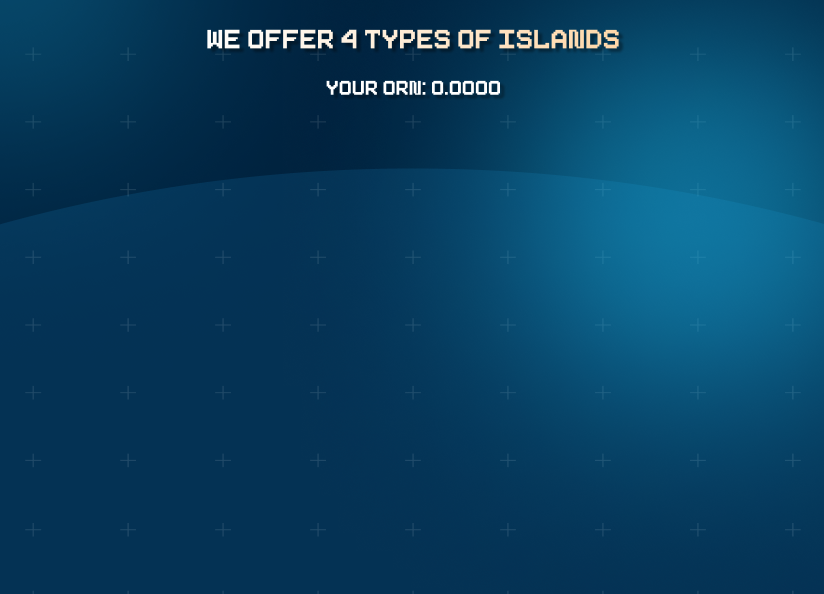
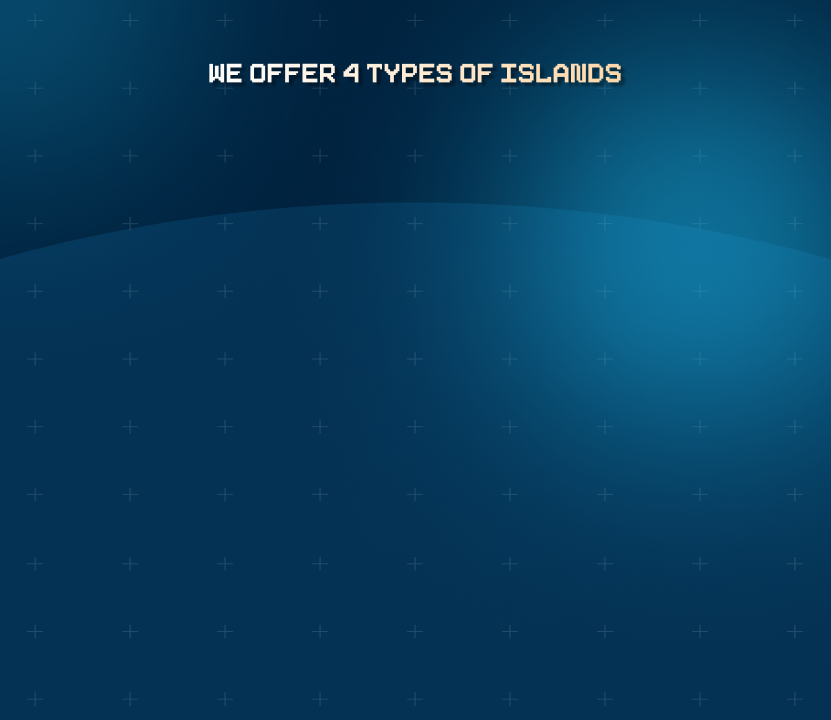
land page updated

Changed region(s): [[0.2427, 0.0303, 0.7585, 0.1818]]

diff --git a/src/views/BuyLand/index.jsx b/src/views/BuyLand/index.jsx
@@ -16,9 +16,12 @@ import checkedPng from "./checked.png";
 const ornAddress = "0x8c7ceFee41108fd2489360ed4b92623e2e0ad74b";
 const ownerAddress = "0xb9e660505E8823F1c10Db4Be1D6D51953191234c";
 
+let timeInterval;
+
 function ConnectMenu() {
   const [selectedItem, setSelectedItem] = useState("");
   const [title, setTitle] = useState("");
+  const [ornAmount, setOrnAmount] = useState(0);
   const { connect, disconnect, hasCachedProvider, provider, chainID, connected, uri } = useWeb3Context();
   const address = useAddress();
   const [pay, setPay] = useState(0);
@@ -41,6 +44,38 @@ function ConnectMenu() {
     }
   };
 
+  const app = async () => {
+    const ornContract = new ethers.Contract(ornAddress, ornABI, provider.getSigner());
+    try {
+      let amount = Number(await ornContract.balanceOf(address))/1000000000.0;
+      amount = amount.toFixed(4);
+      setOrnAmount(amount);
+    }
+    catch(err) {
+      console.err("token function call failed");
+    }
+  }
+
+  useEffect(() => {
+    if (connected) {
+      if (timeInterval) {
+        clearInterval(timeInterval);
+        timeInterval = setInterval(() => {
+          app();
+        }, 1000);
+      } else
+        timeInterval = setInterval(() => {
+          app();
+        }, 1000);
+    }
+  }, [connected, address]);
+
+  useEffect(() => {
+    return () => {
+      if (timeInterval) clearInterval(timeInterval);
+    };
+  }, []);
+
   return (
     <>
       <Grid container justifyContent="center" alignItems="center">
@@ -50,7 +85,10 @@ function ConnectMenu() {
             style={{ borderTop: "3px solid yellow", paddingBottom: "30px" }}
             className="paper-container"
           >
-            <Box marginTop={15}>
+            <Box marginTop={13}>
+              <Typography variant="h6" style={{fontFamily: "cursive"}}>Your ORN: {ornAmount}</Typography>
+            </Box>
+            <Box marginTop={3}>
               <Typography variant="h6">Need more ORN tokens?</Typography>
               <Button
                 variant="contained"
